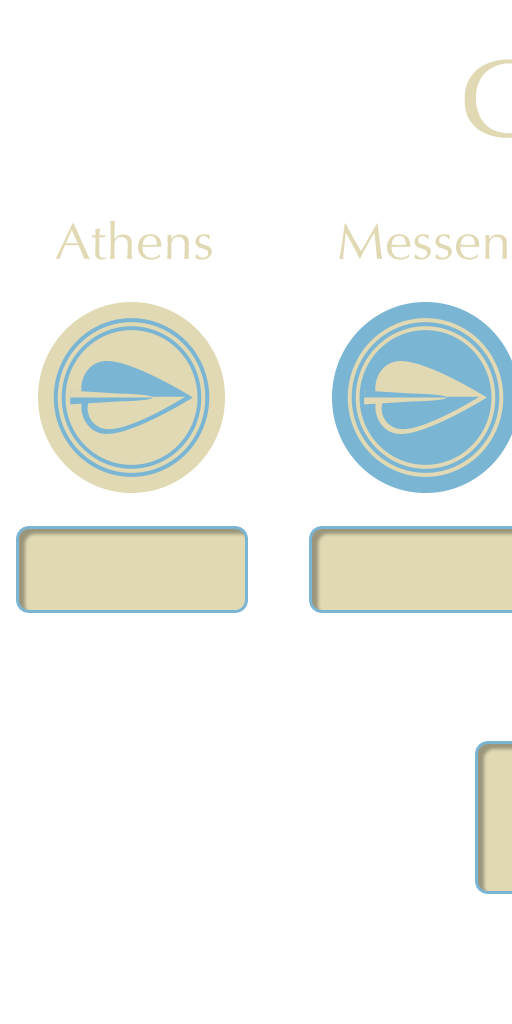
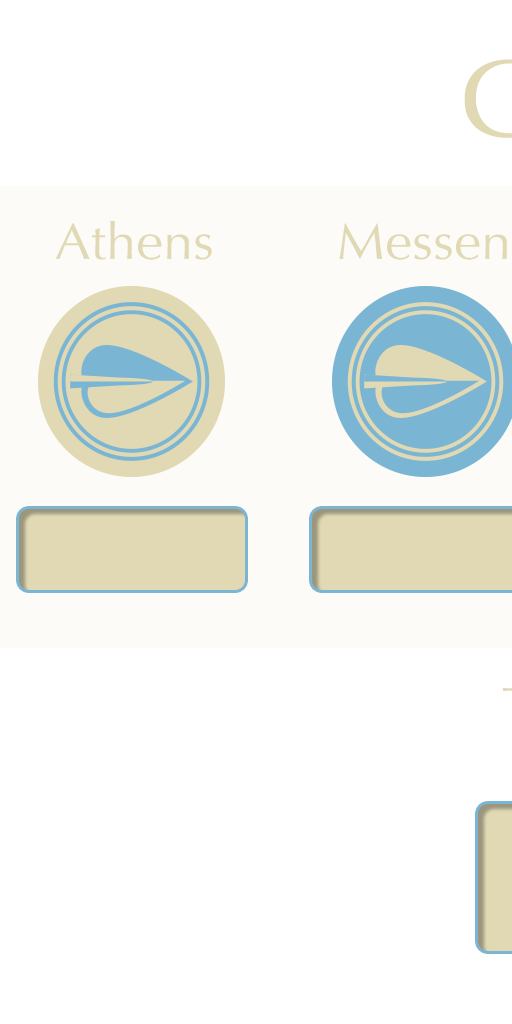
implement turn timer setup UI

diff --git a/js/main.js b/js/main.js
@@ -46,6 +46,7 @@ window.onload = function() {
 	loadImage("menuPopup");
 	loadImage("menuSetup", 1);
 	loadImage("menuSetupAI", 2);
+	loadImage("menuSetupTimer", 3);
 	loadImage("menuTutorial", 1);
 	loadImage("menuOption", 1);
 	loadImage("menuOptionSlider");
@@ -571,10 +572,11 @@ function drawContext(context, dTime, tv) {
 	case "setup":
 		context.drawImage(images["menuSetup0"], x, y);
 		context.drawImage(images["menuSetup1"], x+512, y);
-		context.drawImage(images["menuSetupAI" + gameMan.ais[0]], x+50, y+540);
-		context.drawImage(images["menuSetupAI" + gameMan.ais[2]], x+340, y+540);
-		context.drawImage(images["menuSetupAI" + gameMan.ais[1]], x+1020, y+540);
-		context.drawImage(images["menuSetupAI" + gameMan.ais[3]], x+1310, y+540);
+		context.drawImage(images["menuSetupAI" + gameMan.ais[0]], x+50, y+520);
+		context.drawImage(images["menuSetupAI" + gameMan.ais[2]], x+340, y+520);
+		context.drawImage(images["menuSetupAI" + gameMan.ais[1]], x+1020, y+520);
+		context.drawImage(images["menuSetupAI" + gameMan.ais[3]], x+1310, y+520);
+		context.drawImage(images["menuSetupTimer" + gameMan.timerIndex], x+840, y+685);
 		break;
 	case "tutorial":
 		context.drawImage(images["menuTutorial0"], x, y);
@@ -846,9 +848,9 @@ function drawTimer(context) {
 		return;
 	}
 	context.save();
-	var remainingTime = gameMan.turnTime - gameMan.turnTimer;
+	var remainingTime = gameMan.turnTimes[gameMan.timerIndex] - gameMan.turnTimer;
 	var minutes = Math.floor(remainingTime / 60000);
-	var seconds = Math.floor(remainingTime / 1000) - 60 * Math.floor(gameMan.turnTimer / 60000);
+	var seconds = Math.floor(remainingTime / 1000) - 60 * minutes;
 	var divider = seconds < 10 ? ":0" : ":";
 	var timeString = minutes + divider + seconds;
 	context.font = (2 * fontSize) + "px Georgia";

diff --git a/js/game.js b/js/game.js
@@ -417,6 +417,13 @@ function menuSetup(index) {
 		}
 	}
 	else if (index == 4) {
+		gameMan.timerIndex++;
+		if (gameMan.timerIndex > 3) {
+			gameMan.timerIndex = 0;
+		}
+		setupTimer();
+	}
+	else if (index == 5) {
 		newGame();
 		fadeScreen("board");
 	}
@@ -521,12 +528,16 @@ function ai() {
 	}
 }
 
+function setupTimer() {
+	gameMan.timed = (gameMan.timerIndex > 0);
+}
+
 function updateTimer(dTime) {
 	if (gameMan.ais[gameMan.player] || gameMan.winner >= 0) {
 		return;
 	}
 	gameMan.turnTimer += dTime;
-	if (gameMan.timed && gameMan.turnTimer > gameMan.turnTime) {
+	if (gameMan.timed && gameMan.turnTimer > gameMan.turnTimes[gameMan.timerIndex]) {
 		pass();
 	}
 }

diff --git a/js/input.js b/js/input.js
@@ -411,8 +411,11 @@ function mouseUp(event) {
 							menuSetup(3);
 						}
 					}
-					else if (x > 480 && x < 1050 && y > 750 && y < 900) {
+					else if (x > 810 && x < 1050 && y > 650 && y < 775) {
 						menuSetup(4);
+					}
+					else if (x > 480 && x < 1050 && y > 785 && y < 900) {
+						menuSetup(5);
 					}
 				}
 			}

diff --git a/js/globals.js b/js/globals.js
@@ -63,8 +63,9 @@ var gameMan = {
 	ais:[0,1,0,1],
 	thinking:false,
 	replaying:false,
+	timerIndex: 0,
 	timed:false,
-	turnTime:3000,
+	turnTimes:[0, 30000, 60000, 120000],
 	turnTimer:0,
 	scene:"menus",
 	screen:"title",
